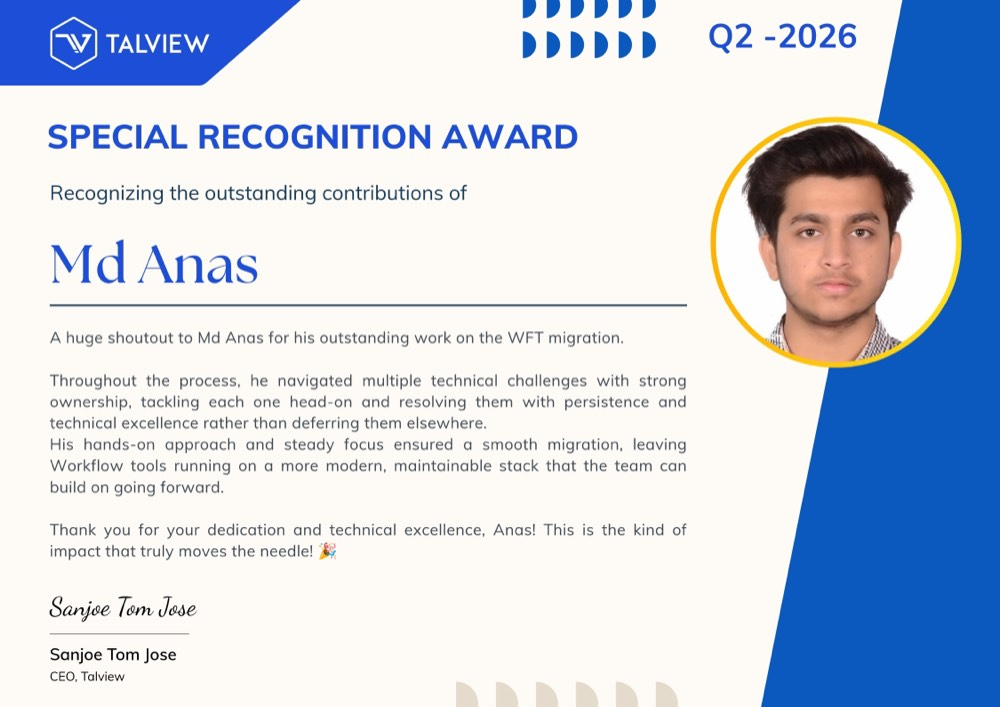
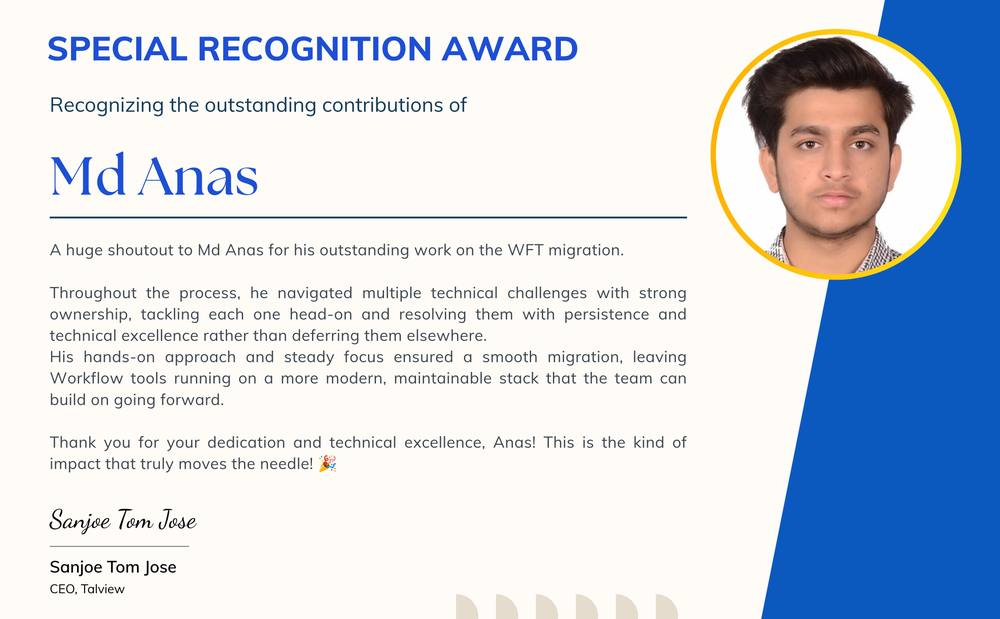
Review pass: title block, sheet 02 clearances, sheet 04 and 05
Sheet 01 — dropped the FOCUS field, which read as narrower than the
work actually is. The email now spans two columns so it sits on one
line, which also makes the nine cells divide evenly into two rows of
five instead of leaving a ragged gap.

Sheet 02 — the lower band was broken: its balloons sat on the grade
line, colliding with the hatch ticks, and the "PLATFORM LAYERS BELOW"
label ran into the frame edge. Balloons are now centred above each
layer with their own tick and 5px of clearance below the hatching,
and the label is gone — hatched ground already means foundation.

Sheet 04 — titled PROJECTS rather than ARTIFACTS. AOL opens by
default so the sheet never reads as a bare list. The expand affordance
is a chevron instead of a dotted square that signalled nothing. Mock
Interview Prep links its live deployment alongside its README.
Inventory Management removed.

Sheet 05 — the Special Recognition award moves to Q3 2026, which gives
every quarter exactly one award and removes the empty column. Clicking
a block on the plot now scrolls the record it opened into view;
previously the citation expanded off-screen and nothing appeared to
happen. The award image is cropped above its header band.

diff --git a/components/Sheet02Elevation.tsx b/components/Sheet02Elevation.tsx
@@ -33,7 +33,7 @@ export default function Sheet02Elevation() {
     sv.appendChild(defs);
 
     const SPAN = 900, X0 = (980 - SPAN) / 2;
-    const N = UPPER.length, G = 16, W = (SPAN - (N - 1) * G) / N, Y = 58, H = 62;
+    const N = UPPER.length, G = 16, W = (SPAN - (N - 1) * G) / N, Y = 52, H = 58;
     const groups: SVGGElement[] = [];
 
     const wire = (g: SVGGElement, i: number) => {
@@ -51,9 +51,9 @@ export default function Sheet02Elevation() {
       g.appendChild(E("rect", { class: "st-box", x, y: Y, width: W, height: H }));
       const a = E("text", { class: "st-l", x: x + W / 2, y: Y + 26 }); a.textContent = s.k; g.appendChild(a);
       const b = E("text", { class: "st-n", x: x + W / 2, y: Y + 44 }); b.textContent = s.g[0]; g.appendChild(b);
-      g.appendChild(E("circle", { class: "bal", cx: x + W / 2, cy: 24, r: 12 }));
-      const n = E("text", { class: "balt", x: x + W / 2, y: 24.5 }); n.textContent = String(i + 1); g.appendChild(n);
-      g.appendChild(E("line", { class: "dimln", x1: x + W / 2, y1: 36, x2: x + W / 2, y2: Y, stroke: "#C8C2B4" }));
+      g.appendChild(E("circle", { class: "bal", cx: x + W / 2, cy: 22, r: 11 }));
+      const n = E("text", { class: "balt", x: x + W / 2, y: 22.5 }); n.textContent = String(i + 1); g.appendChild(n);
+      g.appendChild(E("line", { class: "dimln", x1: x + W / 2, y1: 33, x2: x + W / 2, y2: Y, stroke: "#C8C2B4" }));
       const L = E("path", { class: "lead", d: `M${x + W / 2} ${Y + H} V${Y + H + 16}` });
       g.appendChild(L);
       L.style.setProperty("--L", String(L.getTotalLength()));
@@ -63,27 +63,25 @@ export default function Sheet02Elevation() {
     });
 
     /* grade line between the feature tier and the platform it stands on */
-    const GY = Y + H + 30;
+    const GY = Y + H + 24;
     sv.appendChild(E("line", { class: "ax", x1: X0 - 14, y1: GY, x2: X0 + SPAN + 14, y2: GY, stroke: "#14161A", "stroke-width": "1.4" }));
     for (let k = 0; k < 26; k++)
       sv.appendChild(E("line", { x1: X0 - 14 + k * 36, y1: GY, x2: X0 - 22 + k * 36, y2: GY + 8, stroke: "#C8C2B4", "stroke-width": ".9" }));
-    const gl = E("text", { class: "dimt", x: X0 + SPAN + 14, y: GY - 7, "text-anchor": "end", fill: "#787F8C" });
-    gl.textContent = "PLATFORM LAYERS BELOW"; sv.appendChild(gl);
-
-    const M = LOWER.length, LG = 16, LW = (SPAN - (M - 1) * LG) / M, LY = GY + 22, LH = 42;
+    const M = LOWER.length, LG = 16, LW = (SPAN - (M - 1) * LG) / M, LY = GY + 50, LH = 40;
     LOWER.forEach((s, j) => {
       const i = N + j, x = X0 + j * (LW + LG);
       const g = E("g", { class: "stage", tabindex: "0", role: "button", "aria-label": "Detail for " + s.k });
       g.appendChild(E("rect", { class: "hatch", x: x + 1, y: LY + 1, width: LW - 2, height: LH - 2 }));
       g.appendChild(E("rect", { class: "st-box", x, y: LY, width: LW, height: LH }));
-      const a = E("text", { class: "st-l", x: x + LW / 2, y: LY + 18 }); a.textContent = s.k.split(" · ")[0]; g.appendChild(a);
-      const b = E("text", { class: "st-n", x: x + LW / 2, y: LY + 32 }); b.textContent = s.g[0]; g.appendChild(b);
-      g.appendChild(E("circle", { class: "bal", cx: x + 16, cy: LY - 13, r: 11 }));
-      const n = E("text", { class: "balt", x: x + 16, y: LY - 12.5 }); n.textContent = String(i + 1); g.appendChild(n);
+      const a = E("text", { class: "st-l", x: x + LW / 2, y: LY + 16 }); a.textContent = s.k.split(" · ")[0]; g.appendChild(a);
+      const b = E("text", { class: "st-n", x: x + LW / 2, y: LY + 30 }); b.textContent = s.g[0]; g.appendChild(b);
+      g.appendChild(E("circle", { class: "bal", cx: x + LW / 2, cy: LY - 26, r: 11 }));
+      const n = E("text", { class: "balt", x: x + LW / 2, y: LY - 25.5 }); n.textContent = String(i + 1); g.appendChild(n);
+      g.appendChild(E("line", { class: "dimln", x1: x + LW / 2, y1: LY - 15, x2: x + LW / 2, y2: LY, stroke: "#C8C2B4" }));
       sv.appendChild(g); groups.push(g); wire(g, i);
     });
 
-    const dy = LY + LH + 32, x1 = X0, x2 = X0 + SPAN;
+    const dy = LY + LH + 30, x1 = X0, x2 = X0 + SPAN;
     sv.appendChild(E("line", { class: "dimln", x1, y1: dy - 12, x2: x1, y2: dy + 6 }));
     sv.appendChild(E("line", { class: "dimln", x1: x2, y1: dy - 12, x2: x2, y2: dy + 6 }));
     sv.appendChild(E("line", { class: "dimln", x1, y1: dy, x2: x2, y2: dy }));

diff --git a/app/globals.css b/app/globals.css
@@ -81,7 +81,11 @@ strong{color:var(--ink);font-weight:620}
 .tb .k em{font-style:normal;color:var(--blu);font-size:1.05em}
 .tb>div{padding:11px 14px;border-right:1px solid var(--rule);border-bottom:1px solid var(--rule);
   min-width:0}
-.tb>div .v{overflow-wrap:anywhere;hyphens:none}
+.tb>div .v{white-space:nowrap;overflow:hidden;text-overflow:ellipsis}
+/* the email is the one value too long for a single column — it spans two,
+   which also makes the nine cells divide evenly into two rows of five */
+.tb>div.wide .v{font-size:.88rem}
+@media(min-width:900px){.tb>div.wide{grid-column:span 2}}
 .tb>div .v a{font-size:.9em}
 .tb .k{font-family:var(--font-jbm),monospace;font-size:8.5px;letter-spacing:.17em;color:var(--dim)}
 .tb .v{margin-top:5px;color:var(--ink);font-variation-settings:"wdth" 104,"wght" 600;font-size:.95rem;
@@ -186,19 +190,18 @@ strong{color:var(--ink);font-weight:620}
   font-size:8.5px;letter-spacing:.14em;color:var(--blu);border:1px solid var(--blu-soft);
   padding:5px 9px;text-decoration:none;transition:all .25s;margin-top:12px}
 .cmp .rd:hover{background:var(--blu);color:#fff;border-color:var(--blu)}
+.cmp .links{display:flex;gap:8px;flex-wrap:wrap}
 .cmp .pn{font-family:var(--font-jbm),monospace;font-size:9px;letter-spacing:.08em;color:var(--red)}
 .cmp .ttl{font-variation-settings:"wdth" 106,"wght" 620;color:var(--ink);font-size:1rem}
 .cmp .ttl small{display:block;font-family:var(--font-jbm),monospace;font-size:8.5px;letter-spacing:.1em;
   color:var(--dim);margin-top:3px;font-variation-settings:normal}
 .cmp .qty{font-family:var(--font-jbm),monospace;font-size:9px;letter-spacing:.12em;color:var(--dim);
   display:flex;align-items:center;gap:9px}
-.cmp .qty i{width:9px;height:9px;border:1px solid var(--ink);display:block;position:relative;
+.cmp .qty i{width:11px;height:11px;display:block;position:relative;
   transition:transform .35s cubic-bezier(.2,.85,.25,1)}
-.cmp .qty i::before,.cmp .qty i::after{content:"";position:absolute;background:var(--ink)}
-.cmp .qty i::before{left:3px;right:3px;top:4px;height:1px}
-.cmp .qty i::after{top:3px;bottom:3px;left:4px;width:1px;transition:opacity .3s}
-.cmp[aria-expanded="true"] .qty i{transform:rotate(90deg)}
-.cmp[aria-expanded="true"] .qty i::after{opacity:0}
+.cmp .qty i::before{content:"";position:absolute;left:1px;top:1px;width:7px;height:7px;
+  border-right:1.6px solid var(--ink);border-bottom:1.6px solid var(--ink);transform:rotate(45deg)}
+.cmp[aria-expanded="true"] .qty i{transform:rotate(180deg)}
 .cmp .exp{display:grid;grid-template-rows:0fr;transition:grid-template-rows .45s cubic-bezier(.3,.8,.3,1)}
 .cmp[aria-expanded="true"] .exp{grid-template-rows:1fr}
 .cmp .exp>div{overflow:hidden}

diff --git a/components/Sheet05Recognition.tsx b/components/Sheet05Recognition.tsx
@@ -1,13 +1,23 @@
 "use client";
 
-import { useEffect, useRef, useState } from "react";
+import { useCallback, useEffect, useRef, useState } from "react";
 import { AWARDS, QUARTERS } from "@/data/awards";
 import { svgEl as E } from "@/lib/useReveal";
 import RecordViewer, { type Record } from "./RecordViewer";
 
 export default function Sheet05Recognition() {
   const svgRef = useRef<SVGSVGElement>(null);
+  const recsRef = useRef<HTMLDivElement>(null);
   const [sel, setSel] = useState<number | null>(null);
+
+  /* selecting from the plot has to bring the record it opened into view —
+     otherwise the citation expands somewhere off-screen and nothing appears
+     to happen. Selecting the record itself is already in view, so it stays put. */
+  const selectAndReveal = useCallback((i: number) => {
+    setSel(i);
+    requestAnimationFrame(() =>
+      recsRef.current?.children[i]?.scrollIntoView({ block: "center", behavior: "smooth" }));
+  }, []);
   const [rec, setRec] = useState<Record | null>(null);
 
   useEffect(() => {
@@ -40,7 +50,7 @@ export default function Sheet05Recognition() {
         t2.textContent = "CLICK TO READ"; g.appendChild(t2);
         sv.appendChild(g);
         g.dataset.i = String(o.i);
-        const pick = () => setSel(o.i);
+        const pick = () => selectAndReveal(o.i);
         g.addEventListener("click", pick);
         g.addEventListener("keydown", (e) => {
           if (e.key === "Enter" || e.key === " ") { e.preventDefault(); pick(); }
@@ -55,7 +65,7 @@ export default function Sheet05Recognition() {
       const ql = E("text", { class: "ql", x: cx, y: BASE + 18 }); ql.textContent = q; sv.appendChild(ql);
       sv.appendChild(E("line", { class: "gr", x1: L + colW * (qi + 1), y1: TOP, x2: L + colW * (qi + 1), y2: BASE + 6 }));
     });
-  }, []);
+  }, [selectAndReveal]);
 
   useEffect(() => {
     svgRef.current?.querySelectorAll<SVGGElement>(".unit")
@@ -83,7 +93,7 @@ export default function Sheet05Recognition() {
           <svg ref={svgRef} id="hist" viewBox="0 0 860 250" role="img" aria-label="Recognitions per quarter" />
         </div>
       </div>
-      <div className="recs rv">
+      <div className="recs rv" ref={recsRef}>
         {AWARDS.map((a, i) => (
           <div key={a.name} className={`rec${sel === i ? " sel" : ""}`} role="button" tabIndex={0}
             onClick={(e) => { if (!(e.target as HTMLElement).closest(".view")) setSel(i); }}

diff --git a/components/Sheet04Assembly.tsx b/components/Sheet04Assembly.tsx
@@ -43,7 +43,12 @@ function Row({ c, open, onToggle }: { c: Component; open: boolean; onToggle: () 
             <div>
               <p>{c.d}</p>
               <div className="parts">{c.parts.map((p) => <span key={p}>{p}</span>)}</div>
-              <a className="rd" href={c.repo} target="_blank" rel="noopener noreferrer">OPEN README ↗</a>
+              <div className="links">
+                <a className="rd" href={c.repo} target="_blank" rel="noopener noreferrer">OPEN README ↗</a>
+                {c.site && (
+                  <a className="rd" href={c.site} target="_blank" rel="noopener noreferrer">VISIT SITE ↗</a>
+                )}
+              </div>
             </div>
             <ExplodedView stack={c.stack} />
           </div>
@@ -54,12 +59,13 @@ function Row({ c, open, onToggle }: { c: Component; open: boolean; onToggle: () 
 }
 
 export default function Sheet04Assembly() {
-  const [open, setOpen] = useState<string | null>(null);
+  /* the first component is open on arrival so the sheet never reads as a bare list */
+  const [open, setOpen] = useState<string | null>(COMPONENTS[0]?.pn ?? null);
   return (
     <section id="s04" className="sheet">
       <div className="shd rv">
         <span className="no">SHEET 04</span>
-        <span className="ti">ARTIFACTS · EXPLODED ASSEMBLY</span>
+        <span className="ti">PROJECTS · EXPLODED ASSEMBLY</span>
         <span className="sc">{COMPONENTS.length} COMPONENTS</span>
       </div>
       <h2 className="rv">What came off the bench.</h2>

diff --git a/data/projects.ts b/data/projects.ts
@@ -4,6 +4,7 @@ export type Component = {
   t: string;
   s: string;
   repo: string;
+  site?: string;
   d: string;
   parts: string[];
   stack: string[];
@@ -27,12 +28,8 @@ export const COMPONENTS: Component[] = [
     stack: ["listing ingest", "match engine", "resume pass", "UI"] },
   { pn: "A-04", t: "Mock Interview Prep", s: "INTERVIEW QUESTION GENERATION",
     repo: "https://github.com/anasmallick35/Mock-Interview-Prep#readme",
+    site: "https://mock-interview-prep-jjzq.vercel.app/",
     d: "Generates interview questions against a role and difficulty, with saved sessions and progress tracking. Typed end to end — GraphQL schema through to the React components.",
     parts: ["GRAPHQL", "POSTGRES", "REDUX-SAGA", "TAILWIND", "TS"],
     stack: ["schema", "generator", "session store", "UI"] },
-  { pn: "A-05", t: "Inventory Management", s: "MERN · FIRST FULL-STACK BUILD",
-    repo: "https://github.com/anasmallick35/inventory_frontend#readme",
-    d: "End-to-end inventory app with authentication, image-backed product management and email-confirmed password recovery. The project where I first had to own a whole system rather than a screen.",
-    parts: ["MONGODB", "EXPRESS", "REACT", "NODE"],
-    stack: ["auth", "products", "media", "recovery"] },
 ];

diff --git a/data/awards.ts b/data/awards.ts
@@ -27,7 +27,7 @@ export const AWARDS: Award[] = [
     sum: "Built the features the demo needed under an urgent timeline, so it went out on schedule.",
     cite: "Anas played an important role in ensuring the customer demo was delivered successfully. He worked closely with the team to prepare the platform, address last-minute challenges, and keep progress aligned with customer timelines. His responsiveness and willingness to step in wherever needed strengthened coordination and kept execution seamless.",
     img: "/awards/appreciation.jpg" },
-  { q: 2, name: "SPECIAL RECOGNITION AWARD", short: "SPECIAL",
+  { q: 3, name: "SPECIAL RECOGNITION AWARD", short: "SPECIAL",
     t: "The v8 migration, owned end to end",
     sum: "For the Workflow Tools migration — 220k lines, 21 domains, v7 to v8.",
     cite: "A huge shoutout to Md Anas for his outstanding work on the WFT migration. Throughout the process, he navigated multiple technical challenges with strong ownership, tackling each one head-on and resolving them with persistence and technical excellence rather than deferring them elsewhere. His hands-on approach and steady focus ensured a smooth migration, leaving Workflow tools running on a more modern, maintainable stack.",

diff --git a/components/Sheet01Title.tsx b/components/Sheet01Title.tsx
@@ -17,8 +17,8 @@ export default function Sheet01Title() {
         <div><div className="k">CURRENT COMPANY</div><div className="v">{P.company}</div></div>
         <div><div className="k">FROM</div><div className="v">{P.from} <em>· {P.tenure}</em></div></div>
         <div><div className="k">BASED IN</div><div className="v">{P.location}</div></div>
-        <div><div className="k">FOCUS</div><div className="v">{P.focus} <em>· {P.focusNote}</em></div></div>
-        <div>
+        <div><div className="k">SHEETS</div><div className="v">{P.sheets}</div></div>
+        <div className="wide">
           <div className="k">EMAIL <em>↗</em></div>
           <div className="v"><a href={`mailto:${P.email}`}>{P.email}</a></div>
         </div>
@@ -31,7 +31,6 @@ export default function Sheet01Title() {
           <div className="k">LINKEDIN <em>↗</em></div>
           <div className="v"><a href={P.linkedinUrl} target="_blank" rel="noopener noreferrer">{P.linkedin}</a></div>
         </div>
-        <div><div className="k">SHEETS</div><div className="v">{P.sheets}</div></div>
       </div>
     </section>
   );

diff --git a/data/profile.ts b/data/profile.ts
@@ -5,8 +5,6 @@ export const PROFILE = {
   from: "2025",
   tenure: "1 yr",
   location: "Bengaluru, IN",
-  focus: "Frontend",
-  focusNote: "platform",
   email: "anasmallick846@gmail.com",
   phone: "+91 62043 42084",
   phoneHref: "tel:+916204342084",
